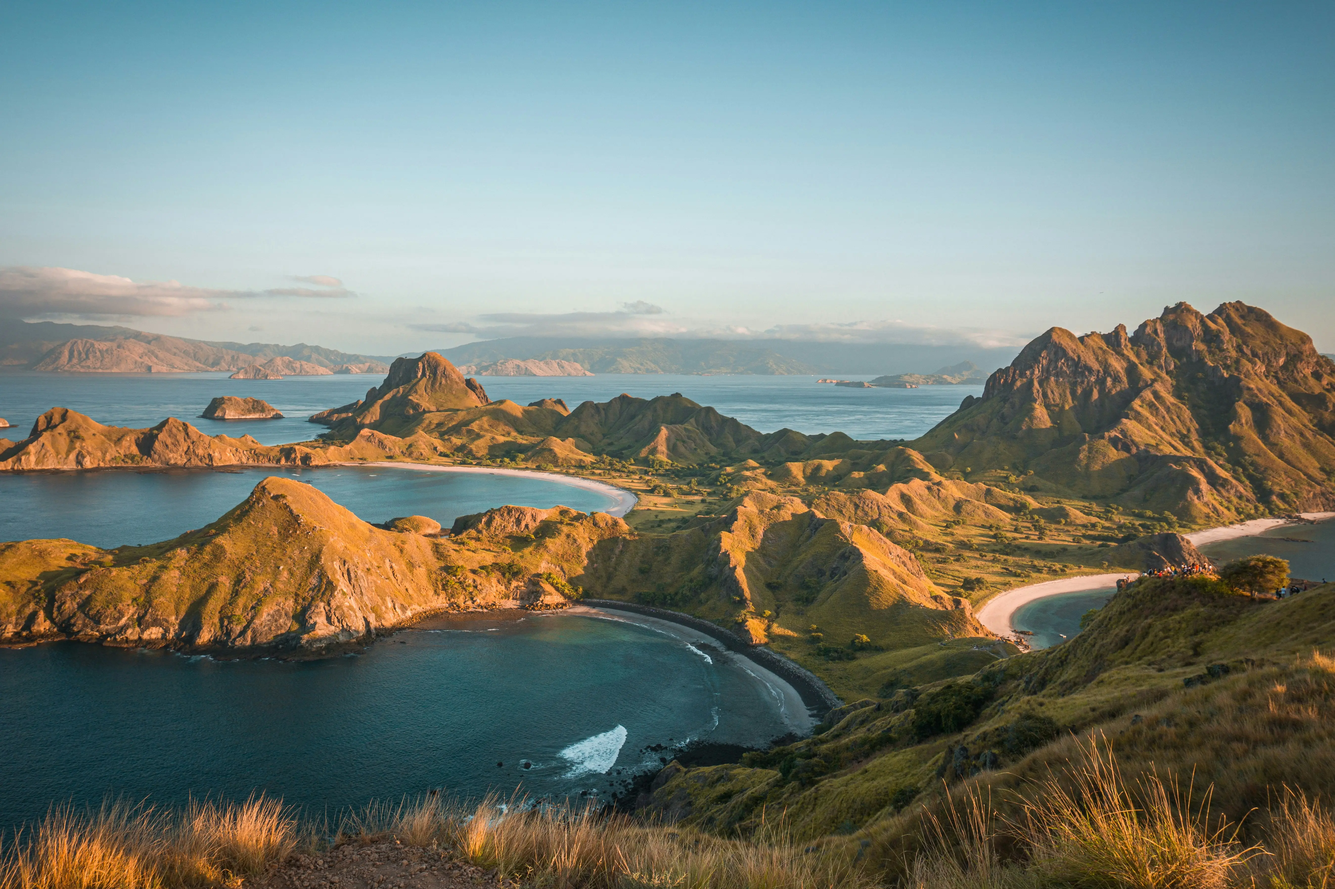
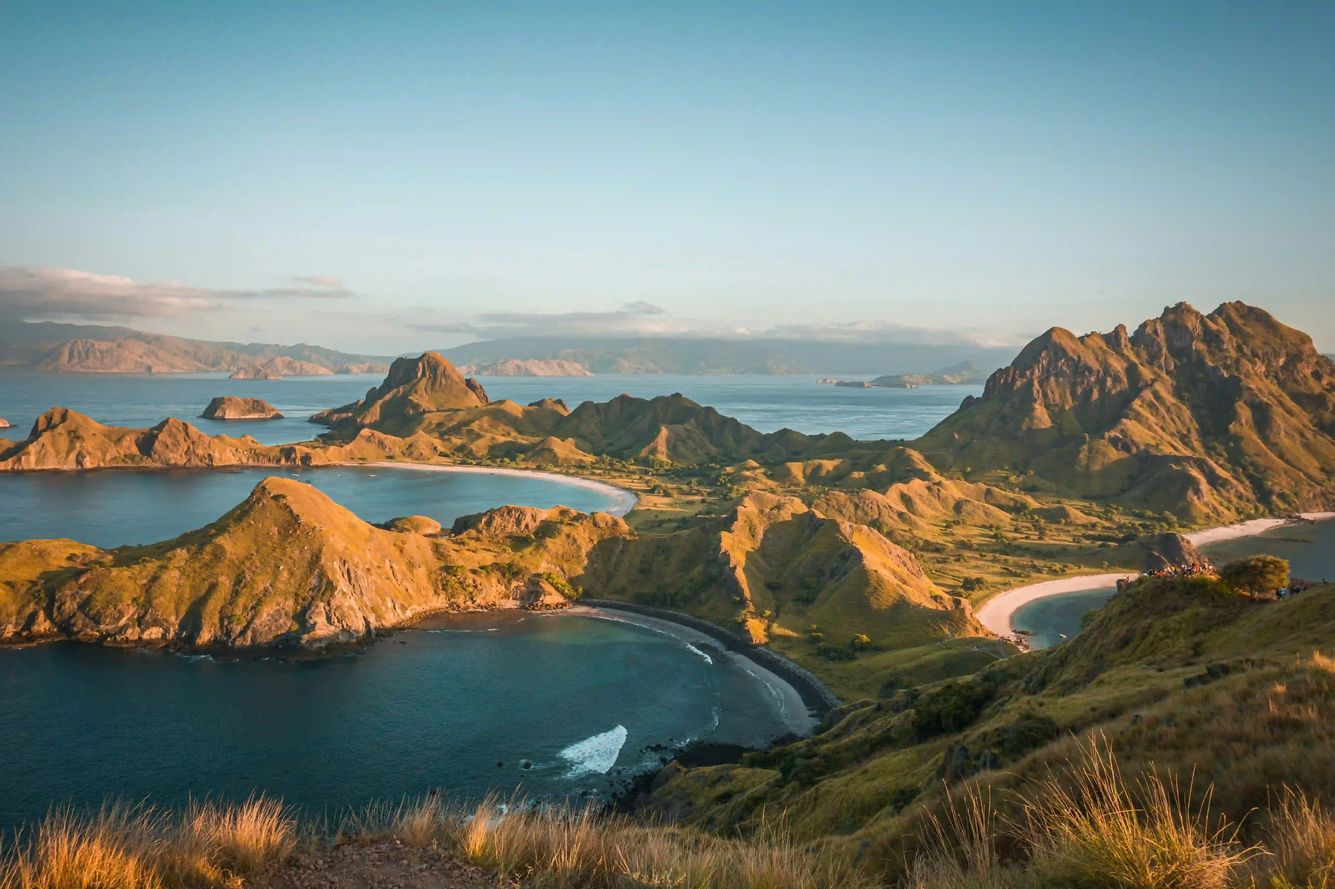
fix: responsive layout for navbar and compressed image

diff --git a/components/user/navbar/NavbarClient.tsx b/components/user/navbar/NavbarClient.tsx
@@ -14,6 +14,7 @@ import { Button } from "@heroui/button";
 import { ReceiptText } from "lucide-react";
 import { Badge } from "@heroui/badge";
 import clsx from "clsx";
+import { useMediaQuery } from "react-responsive";
 
 import { TravelixLogoHorizontal } from "../../icons";
 import CartsPopover from "../carts/CartsPopover";
@@ -120,6 +121,7 @@ const NavbarClient = ({ authUser }: NavbarClientProps) => {
   const [isMenuOpen, setIsMenuOpen] = useState<boolean>(false);
   const [modalLogout, setModalLogout] = useState<boolean>(false);
   const position = useNavbarPosition();
+  const isSmallMobile = useMediaQuery({ maxWidth: 639 });
 
   return (
     <Navbar
@@ -136,7 +138,7 @@ const NavbarClient = ({ authUser }: NavbarClientProps) => {
           className="md:hidden"
         />
         <NavbarBrand>
-          <TravelixLogoHorizontal width={120} />
+          <TravelixLogoHorizontal width={isSmallMobile ? 75 : 120} />
         </NavbarBrand>
       </NavbarContent>
       <NavbarContent className="hidden md:flex gap-6" justify="center">

diff --git a/components/user/carts/CartsPopover.tsx b/components/user/carts/CartsPopover.tsx
@@ -72,10 +72,10 @@ const CartsPopover = ({ carts }: { carts: Cart[] }) => {
                     <p className="font-medium">
                       {cart.quantity} x{" "}
                       {formatRupiah(
-                        cart.activity.price_discount || cart.activity.price
+                        cart.activity.price_discount ?? cart.activity.price
                       )}
                     </p>
-                    {cart.activity.price_discount && (
+                    {cart.activity.price_discount !== null && (
                       <p className="line-through text-xs font-light">
                         {formatRupiah(cart.activity.price)}
                       </p>

diff --git a/components/user/destinations/DestinationCard.tsx b/components/user/destinations/DestinationCard.tsx
@@ -78,11 +78,11 @@ const DestinationCard = ({
         <div className="flex justify-between w-full mt-3">
           <div className="flex flex-row gap-2 items-center">
             <p className="text-base font-bold text-red-600">
-              {destination.price_discount
+              {destination.price_discount !== null
                 ? formatRupiah(destination.price_discount)
                 : formatRupiah(destination.price)}
             </p>
-            {destination.price_discount && (
+            {destination.price_discount !== null && (
               <p className="line-through text-xs text-gray-600">
                 {formatRupiah(destination.price)}
               </p>

diff --git a/components/user/destinations/destination-detail/DestinationDetailCartAction.tsx b/components/user/destinations/destination-detail/DestinationDetailCartAction.tsx
@@ -109,10 +109,10 @@ const DestinationDetailCartAction = ({
                 <div className="flex gap-2 items-center">
                   <p className="text-red-600 text-xl font-bold">
                     {formatRupiah(
-                      destination.price_discount || destination.price
+                      destination.price_discount ?? destination.price
                     )}
                   </p>
-                  {destination.price_discount && (
+                  {destination.price_discount !== null && (
                     <p className="text-sm line-through text-gray-600">
                       {formatRupiah(destination.price)}
                     </p>

diff --git a/components/user/destinations/DestinationsPageClient.tsx b/components/user/destinations/DestinationsPageClient.tsx
@@ -59,7 +59,7 @@ const DestinationsPageClient = ({
               </div>
             )}
             <div className="flex-grow ">
-              <div className="flex justify-between items-end">
+              <div className="flex justify-between items-end flex-wrap gap-2 lg:gap-0">
                 <h2 className="text-lg md:text-xl font-semibold">
                   Showing{" "}
                   {searchKeyword ? (

diff --git a/components/user/destinations/DestinationsToolbar.tsx b/components/user/destinations/DestinationsToolbar.tsx
@@ -32,7 +32,7 @@ const DestinationsToolbar = ({ className }: { className?: string }) => {
           </div>
 
           <form
-            className="flex gap-4 w-[390px] lg:w-[440px]"
+            className="flex gap-4 w-[320px] md:w-[370px] lg:w-[440px]"
             onSubmit={(e) => {
               e.preventDefault();
               setSearchKeyword(search);

diff --git a/components/user/navbar/ProfileDropdown.tsx b/components/user/navbar/ProfileDropdown.tsx
@@ -31,7 +31,7 @@ const ProfileDropdown = ({
             color="primary"
             src={authUser.profilePictureUrl}
           />
-          {authUser.name.split(" ")[0]}
+          <p className="line-clamp-1">{authUser.name.split(" ")[0]}</p>
         </Button>
       </DropdownTrigger>
       <DropdownMenu aria-label="Static Actions">
